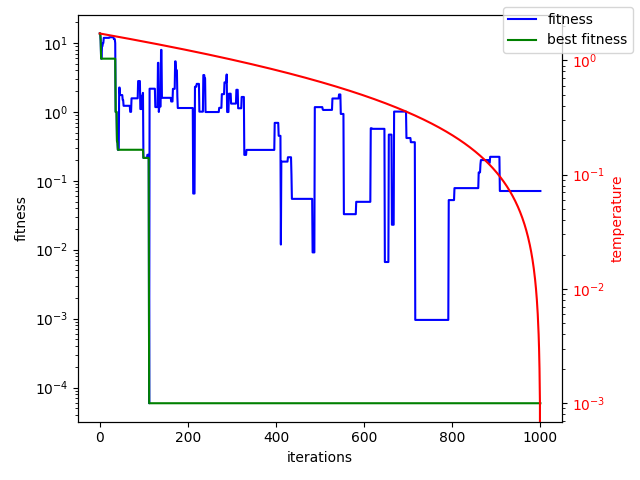
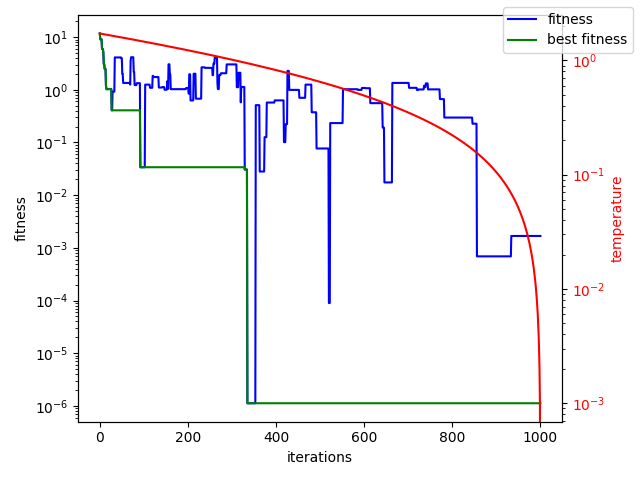
generic CRO compiles on rastrigin n=1, still needs work on n > 1

diff --git a/algorithms/coral_reef_optimization_rastrigin.py b/algorithms/coral_reef_optimization_rastrigin.py
@@ -11,7 +11,7 @@ def initialize(reef, init, N, M, p0, hf):
     # p0 is a ratio of populated vs unpopulated colonies, not a probability!
     # Example in paper: N=5, M=6, p0=0.43, size=30, pop=9, unpop=21
     size = N * M
-    numCorals = round((size * p0) / (1 + p0))
+    numCorals = round((size * p0) / (1 - p0))
     indices = np.random.randint(low=0, high=size, size=numCorals)
 
     for i in indices:
@@ -35,8 +35,8 @@ def separate(reef, pk):
         r = random.random()
         if (r <= pk):
             bsp.append(coral)
-        else: br.append(coral)
-
+        else: 
+            br.append(coral)
     return bsp, br
 
 def broadcastSpawning(bsp, crossover, newCorals, hf):
@@ -45,19 +45,18 @@ def broadcastSpawning(bsp, crossover, newCorals, hf):
         couple = random.sample(bsp, 2)
         c1 = couple[0]
         c2 = couple[1]
-        larva = crossover(c1[0], c2[0], numChildren=1)
+        larva = crossover(c1[0], c2[0], num_children=1)[0] # crossover returns array of children
 
         bsp.remove(c1)
         bsp.remove(c2)
-
         newCorals.append((larva, hf(larva)))
 
 def brooding(br, mutate, newCorals, hf):
     for c in br:
-        larva = mutate(c)
+        larva = mutate(c[0])
         newCorals.append((larva, hf(larva)))
 
-def larvaeSetting(newCorals, k, reef, N, M)
+def larvaeSetting(newCorals, k, reef, N, M):
     for c in newCorals:
         for _ in range(k):
             settle(c, reef, N, M)
@@ -99,22 +98,25 @@ def depredation(reef, Fd, pd, N, M):
                 healths.append(h)
 
     healths.sort()
-    mh = healths[round(len(healths)*Fd)]
+    if len(healths) > 0: # do nothing if there are no corals
+        mh = healths[round(len(healths)*Fd)]
 
-    for i in range(N):
-        for j in range(M):
-            if (not reef[i][j] == None):
-                r = random.random()
-                if (r <= pd):
-                    c = reef[i][j]
-                    if (c[1] <= mh):
-                        reef[i][j] = None
+        for i in range(N):
+            for j in range(M):
+                if (not reef[i][j] == None):
+                    r = random.random()
+                    if (r <= pd):
+                        c = reef[i][j]
+                        if (c[1] <= mh):
+                            reef[i][j] = None
 
 #pk = fraction of broadcast spawners
 #k = number of times corals attempt to settle before giving up
 #fa = fraction of corals that asexually reproduce
 #pd = probability for depredation
-def CRO(init, N, M, hf, crossover, mutate, p0, pk, k, Fa, Fd, pd, numIters):
+def CRO(init, N, M, fitness_fn, crossover, mutate, p0, pk, k, Fa, Fd, pd, numIters):
+    infty = 1e12
+    hf = lambda x: fitness_fn(x[0])
     assert 0 < p0 and p0 < 1 and 0 < pk and pk < 1 and 0 < pd and pd < 1
     assert 0 < Fa and Fa < 1 and 0 < Fd and Fd < 1
     assert 0 < N and 0 < M and 0 <= numIters and 0 < k
@@ -124,7 +126,7 @@ def CRO(init, N, M, hf, crossover, mutate, p0, pk, k, Fa, Fd, pd, numIters):
 
     reef = [([None] * M) for row in range(N)]
     initialize(reef, init, N, M, p0, hf)
-
+   
     reef_evolutions = []
     for _ in range(numIters):
         bsp, br = separate(reef, pk)
@@ -142,9 +144,11 @@ def CRO(init, N, M, hf, crossover, mutate, p0, pk, k, Fa, Fd, pd, numIters):
 
         depredation (reef, Fd, pd, N, M)
 
-        reef_evolutions.append(np.array(reef))
+        reef_evolutions.append(np.array(reef, dtype=object))
 
-    flatten = [c for row in reef for c in row]
-    solution = max(flatten, lambda x: x[1])
+    flatten = list(filter(lambda x: x is not None, [c for row in reef for c in row]))
+    if len(flatten) == 0:
+        assert False, "no solutions found"
+    solution = max(flatten, key=lambda x: x[1])
     
     return solution, reef_evolutions

diff --git a/rastrigin.py b/rastrigin.py
@@ -40,8 +40,13 @@ def prints(s):
     if print_alot:
         print(s)
 
-Ns = [1] #, 5, 10]
+Ns = [1, 5, 10]
 for n in Ns:
+    print("="*80)
+    print(f"RASTRIGIN N={n}")
+    rastrigin = Rastrigin(n)
+    rastrigin_folder = "rastrigin_results/"
+
     N = 5
     M = 6
     num_generations = 50
@@ -49,23 +54,19 @@ for n in Ns:
     num_runs = 10   # because algorithms are nondeterministic, we did some runs and took average
     init = [rastrigin.random_feasible_point() for i in range(population_size)]
 
-    print("="*80)
-    print(f"RASTRIGIN N={n}")
-    rastrigin = Rastrigin(n)
-    rastrigin_folder = "rastrigin_results/"
     """
     Coral Reef Optimization
     """
     print("-"*80)
     print("CRO")
-    p0 = 0.01
+    p0 = 0.1# 0.01
     pk = 0.5
     k = 10
     Fa = 0.1
     Fd = Fa
     Pd = 0.05
-    solution, history = CRO(init, N, M, lambda x: -rastrigin.fitness(x-2), rastrigin.crossover, rastrigin.mutate, p0, pk, k, Fa, Fd, Pd, num_generations)
-    print(solution, history)
+    solution, history = CRO(init, N, M, lambda x: -rastrigin.fitness(x), rastrigin.crossover, rastrigin.mutate, p0, pk, k, Fa, Fd, Pd, num_generations)
+    print(solution)#, history)
 
     """
     Genetic Algorithm
